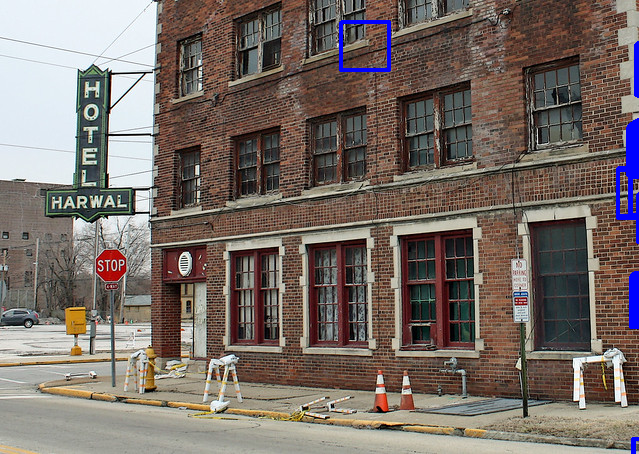
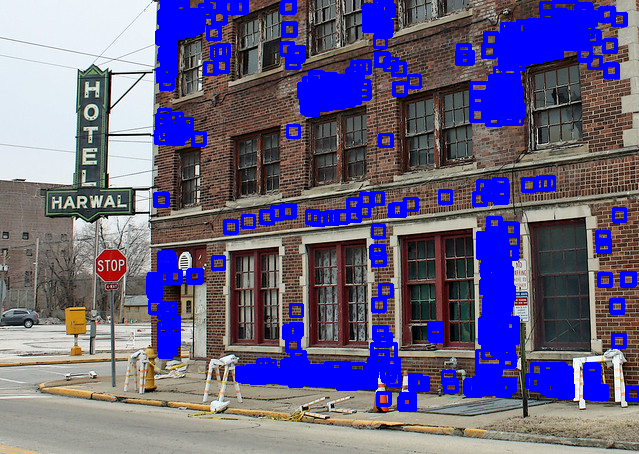
fixed image pyramids

diff --git a/Extra_Problem/scaled_template_matching.py b/Extra_Problem/scaled_template_matching.py
@@ -35,6 +35,10 @@ def template_match(template, image,
         # template match on this new image
         new_matches = problem4_template_matching(template, upscaled_image, threshold=detection_threshold)
 
+        # scale the new matches back down to original size
+        sf = (i + 1) * 2 # scaling factor
+        new_matches = [(y/sf, x/sf, h/sf, w/sf) for y, x, h, w in new_matches]
+
         # append the new matches to our list of matches
         matches.extend(new_matches)
 
@@ -46,6 +50,10 @@ def template_match(template, image,
 
         # template match
         new_matches = problem4_template_matching(template, downscaled_image, threshold=detection_threshold)
+
+        # scale the new matches back up to original size
+        sf = (i + 1) * 2  # scaling factor
+        new_matches = [(y * sf, x * sf, h * sf, w * sf) for y, x, h, w in new_matches]
 
         # append to our list
         matches.extend(new_matches)
